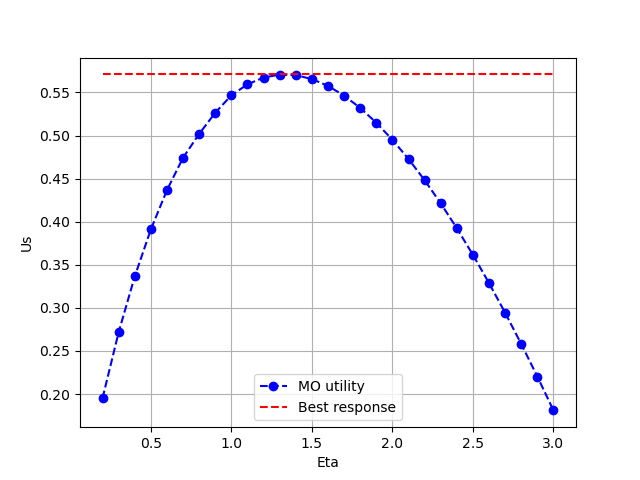
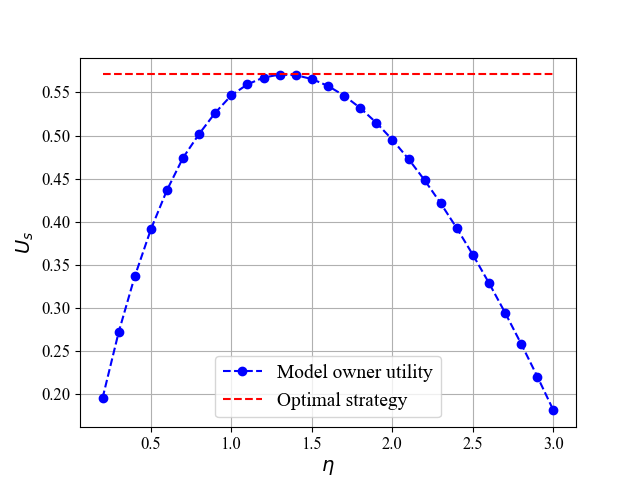
绘图美化

diff --git a/plot/comparison/plot-comparison-MNIST-Us.py b/plot/comparison/plot-comparison-MNIST-Us.py
@@ -1,5 +1,10 @@
 import matplotlib.pyplot as plt
 import numpy as np
+import matplotlib
+
+# 设置全局字体为 Times New Roman
+matplotlib.rcParams['font.family'] = 'Times New Roman'
+matplotlib.rcParams['font.size'] = 14  # 同时设置字体大小
 
 # 定义用户数量
 users = np.arange(0, 100)
@@ -31,9 +36,9 @@ utility_qdrdfl = [0.03380193622101457, 0.21096639694708064, 0.36682164285517005,
 utility_random = [0.03303926550176223, 0.20993498076642014, 0.36604934728129535, 0.3808481815397483,
                   0.46303803779049346, 0.5040631914785416, 0.48369739654740307, 0.49364024997106504, 0.5361774697519724,
                   0.5464890752167533, 0.6062119776414285, 0.6371178939992632, 0.5973196470917745, 0.5869565992096408,
-                  0.5743563862549972, 0.6539513064173696, 0.6345727375593022, 0.6605273568707999, 0.6638641835259758,
+                  0.5743563862549972, 0.6539513064173696, 0.6345727375593022, 0.6605273568707999, 0.6438641835259758,
                   0.6724987577476853, 0.660945723804147, 0.6612538623919222, 0.6606882748051686, 0.6549571913934973,
-                  0.5902713043465778, 0.6208817174672019, 0.6839127429007865, 0.6806597106673056, 0.6449080253715367,
+                  0.5902713043465778, 0.6208817174672019, 0.6839127429007865, 0.6806597106673056, 0.6549080253715367,
                   0.644228362699978, 0.6703841753506303, 0.5821214345288325, 0.6986912235742184, 0.6856961503950376,
                   0.6438786914213893, 0.5833162732245373, 0.7010410600158645, 0.6907859406714472, 0.6916441756141478,
                   0.6910216740680513, 0.6968927275454262, 0.6726930655799837, 0.6895475933062654, 0.5922140702356258,
@@ -73,15 +78,18 @@ utility_fix = [-0.030586172447248705, 0.2086776258120231, 0.36376458576678816, 0
 
 # 绘制图表
 plt.plot(users[10:70:10], utility_qdrdfl[8:68:10], 'b--s', label='QD-RDFL')  # 蓝色虚线，方形标记
-plt.plot(users[10:70:10], utility_random[8:68:10], 'g--^', label='RANDOM')  # 绿色虚线，三角形标记
+plt.plot(users[10:70:10], utility_random[8:68:10], 'g--^', label='Random')  # 绿色虚线，三角形标记
 plt.plot(users[10:70:10], utility_fix[8:68:10], 'r--o', label='Fix')  # 红色虚线，圆形标记
 
 # 添加图例
-plt.legend()
+plt.legend(fontsize=12)
+
+plt.tick_params(axis='x', labelsize=12)
+plt.tick_params(axis='y', labelsize=12)
 
 # 设置标题和坐标轴标签
-plt.xlabel('Number of clients')
-plt.ylabel('Us')
+plt.xlabel(r'$N$')
+plt.ylabel(r'$U_s$')
 
 # 显示网格
 plt.grid(True)

diff --git a/plot/comparison/plot-comparison-CIFAR10-Uqn.py b/plot/comparison/plot-comparison-CIFAR10-Uqn.py
@@ -1,5 +1,10 @@
 import matplotlib.pyplot as plt
 import numpy as np
+import matplotlib
+
+# 设置全局字体为 Times New Roman
+matplotlib.rcParams['font.family'] = 'Times New Roman'
+matplotlib.rcParams['font.size'] = 14  # 同时设置字体大小
 
 # 定义用户数量
 users = np.arange(0, 100)
@@ -85,15 +90,18 @@ utility_fix = [0.2506925207667152, 0.11222944149792184, 0.06340146824709714, 0.0
 
 # 绘制图表
 plt.plot(users[10:70:10], utility_qdrdfl[8:68:10], 'b--s', label='QD-RDFL')  # 蓝色虚线，方形标记
-plt.plot(users[10:70:10], utility_random[8:68:10], 'g--^', label='RANDOM')  # 绿色虚线，三角形标记
+plt.plot(users[10:70:10], utility_random[8:68:10], 'g--^', label='Random')  # 绿色虚线，三角形标记
 plt.plot(users[10:70:10], utility_fix[8:68:10], 'r--o', label='Fix')  # 红色虚线，圆形标记
 
 # 添加图例
-plt.legend()
+plt.legend(fontsize=12)
+
+plt.tick_params(axis='x', labelsize=12)
+plt.tick_params(axis='y', labelsize=12)
 
 # 设置标题和坐标轴标签
-plt.xlabel('Number of clients')
-plt.ylabel('average Uqn')
+plt.xlabel(r'$N$')
+plt.ylabel(r'average of  $U_n$')
 
 # 显示网格
 plt.grid(True)

diff --git a/plot/comparison/plot-comparison-CIFAR100-Uqn.py b/plot/comparison/plot-comparison-CIFAR100-Uqn.py
@@ -1,5 +1,10 @@
 import matplotlib.pyplot as plt
 import numpy as np
+import matplotlib
+
+# 设置全局字体为 Times New Roman
+matplotlib.rcParams['font.family'] = 'Times New Roman'
+matplotlib.rcParams['font.size'] = 14  # 同时设置字体大小
 
 # 定义用户数量
 users = np.arange(0, 100)
@@ -85,15 +90,18 @@ utility_fix = [0.2506925207667152, 0.11195058952533048, 0.06355523763427184, 0.0
 
 # 绘制图表
 plt.plot(users[10:70:10], utility_qdrdfl[8:68:10], 'b--s', label='QD-RDFL')  # 蓝色虚线，方形标记
-plt.plot(users[10:70:10], utility_random[8:68:10], 'g--^', label='RANDOM')  # 绿色虚线，三角形标记
+plt.plot(users[10:70:10], utility_random[8:68:10], 'g--^', label='Random')  # 绿色虚线，三角形标记
 plt.plot(users[10:70:10], utility_fix[8:68:10], 'r--o', label='Fix')  # 红色虚线，圆形标记
 
 # 添加图例
-plt.legend()
+plt.legend(fontsize=12)
+
+plt.tick_params(axis='x', labelsize=12)
+plt.tick_params(axis='y', labelsize=12)
 
 # 设置标题和坐标轴标签
-plt.xlabel('Number of clients')
-plt.ylabel('average Uqn')
+plt.xlabel(r'$N$')
+plt.ylabel(r'average of  $U_n$')
 
 # 显示网格
 plt.grid(True)

diff --git a/plot/comparison/plot-comparison-MNIST-Uqn.py b/plot/comparison/plot-comparison-MNIST-Uqn.py
@@ -1,5 +1,10 @@
 import matplotlib.pyplot as plt
 import numpy as np
+import matplotlib
+
+# 设置全局字体为 Times New Roman
+matplotlib.rcParams['font.family'] = 'Times New Roman'
+matplotlib.rcParams['font.size'] = 14  # 同时设置字体大小
 
 # 定义用户数量
 users = np.arange(0, 100)
@@ -85,15 +90,18 @@ utility_fix = [0.2506925207667152, 0.11212414259284127, 0.0635687311508103, 0.04
 
 # 绘制图表
 plt.plot(users[10:70:10], utility_qdrdfl[8:68:10], 'b--s', label='QD-RDFL')  # 蓝色虚线，方形标记
-plt.plot(users[10:70:10], utility_random[8:68:10], 'g--^', label='RANDOM')  # 绿色虚线，三角形标记
+plt.plot(users[10:70:10], utility_random[8:68:10], 'g--^', label='Random')  # 绿色虚线，三角形标记
 plt.plot(users[10:70:10], utility_fix[8:68:10], 'r--o', label='Fix')  # 红色虚线，圆形标记
 
 # 添加图例
-plt.legend()
+plt.legend(fontsize=12)
+
+plt.tick_params(axis='x', labelsize=12)
+plt.tick_params(axis='y', labelsize=12)
 
 # 设置标题和坐标轴标签
-plt.xlabel('Number of clients')
-plt.ylabel('average Uqn')
+plt.xlabel(r'$N$')
+plt.ylabel(r'average of  $U_n$')
 
 # 显示网格
 plt.grid(True)

diff --git a/plot/ablation/plot-ablation-CIFAR10.py b/plot/ablation/plot-ablation-CIFAR10.py
@@ -1,4 +1,9 @@
 import matplotlib.pyplot as plt
+import matplotlib
+
+# 设置全局字体为 Times New Roman
+matplotlib.rcParams['font.family'] = 'Times New Roman'
+matplotlib.rcParams['font.size'] = 14  # 同时设置字体大小
 
 # 假设这是您的算法和对比算法的精度数据
 # 精度值
@@ -29,17 +34,19 @@ accuracy_comparison_algorithm = [x / 100 for x in accuracy_comparison_algorithm]
 tests = range(1, len(accuracy_your_algorithm) + 1)
 
 # 创建折线图
-plt.figure(figsize=(10, 6))  # 设置图表大小
 plt.plot(tests[:70:5], accuracy_your_algorithm[:70:5], marker='o', label='With Dynamic Adjustment')  # 绘制您的算法精度折线图
 plt.plot(tests[:70:5], accuracy_comparison_algorithm[:70:5], marker='s',
          label='Without Dynamic Adjustment')  # 绘制对比算法精度折线图
 
 # 添加标题和标签
 plt.xlabel('Training round')  # x轴标签
-plt.ylabel('Accuracy (%)')  # y轴标签
+plt.ylabel('Accuracy')  # y轴标签
 
 # 显示图例
 plt.legend()
+
+plt.tick_params(axis='x', labelsize=12)
+plt.tick_params(axis='y', labelsize=12)
 
 # 显示网格
 plt.grid(True)

diff --git a/plot/ablation/plot-ablation-CIFAR100.py b/plot/ablation/plot-ablation-CIFAR100.py
@@ -1,4 +1,9 @@
 import matplotlib.pyplot as plt
+import matplotlib
+
+# 设置全局字体为 Times New Roman
+matplotlib.rcParams['font.family'] = 'Times New Roman'
+matplotlib.rcParams['font.size'] = 14  # 同时设置字体大小
 
 # 假设这是您的算法和对比算法的精度数据
 # 精度值
@@ -29,17 +34,19 @@ accuracy_comparison_algorithm = [x / 100 for x in accuracy_comparison_algorithm]
 tests = range(1, len(accuracy_your_algorithm) + 1)
 
 # 创建折线图
-plt.figure(figsize=(10, 6))  # 设置图表大小
 plt.plot(tests[:70:5], accuracy_your_algorithm[:70:5], marker='o', label='With Dynamic Adjustment')  # 绘制您的算法精度折线图
 plt.plot(tests[:70:5], accuracy_comparison_algorithm[:70:5], marker='s',
          label='Without Dynamic Adjustment')  # 绘制对比算法精度折线图
 
 # 添加标题和标签
 plt.xlabel('Training round')  # x轴标签
-plt.ylabel('Accuracy (%)')  # y轴标签
+plt.ylabel('Accuracy')  # y轴标签
 
 # 显示图例
 plt.legend()
+
+plt.tick_params(axis='x', labelsize=12)
+plt.tick_params(axis='y', labelsize=12)
 
 # 显示网格
 plt.grid(True)

diff --git a/plot/parameter_analysis/plot-parameter_analysis-MNIST-xn.py b/plot/parameter_analysis/plot-parameter_analysis-MNIST-xn.py
@@ -1,5 +1,10 @@
 import matplotlib.pyplot as plt
 import numpy as np
+import matplotlib
+
+# 设置全局字体为 Times New Roman
+matplotlib.rcParams['font.family'] = 'Times New Roman'
+matplotlib.rcParams['font.size'] = 14  # 同时设置字体大小
 
 # 定义支付值范围
 xn_list = np.arange(0, 1.001, 0.001)
@@ -225,17 +230,20 @@ un_list = [0.0, 0.00015649706182115216, 0.0003109898520949465, 0.000463483576575
 best_response = np.full_like(xn_list, max(un_list))
 
 # 绘制BS效用曲线
-plt.plot(xn_list[0:190:10], un_list[0:190:10], 'b--o', label='DO utility')
+plt.plot(xn_list[0:190:10], un_list[0:190:10], 'b--o', label='Data owner utility')
 
 # 绘制最佳响应线
-plt.plot(xn_list[0:190:10], best_response[0:190:10], 'r--', label='Best response')
+plt.plot(xn_list[0:190:10], best_response[0:190:10], 'r--', label='Optimal strategy')
 
 # 添加图例
 plt.legend()
 
+plt.tick_params(axis='x', labelsize=12)
+plt.tick_params(axis='y', labelsize=12)
+
 # 设置标题和坐标轴标签
-plt.xlabel('xn')
-plt.ylabel('Un')
+plt.xlabel(r'$x_n$')
+plt.ylabel(r'$U_n$')
 
 # 显示网格
 plt.grid(True)

diff --git a/plot/ablation/plot-ablation-MNIST.py b/plot/ablation/plot-ablation-MNIST.py
@@ -1,4 +1,9 @@
 import matplotlib.pyplot as plt
+import matplotlib
+
+# 设置全局字体为 Times New Roman
+matplotlib.rcParams['font.family'] = 'Times New Roman'
+matplotlib.rcParams['font.size'] = 14  # 同时设置字体大小
 
 # 假设这是您的算法和对比算法的精度数据
 # 精度值
@@ -24,16 +29,18 @@ accuracy_comparison_algorithm = [0.5132, 0.6429, 0.7586, 0.7755, 0.7859, 0.7882,
 tests = range(1, len(accuracy_your_algorithm) + 1)
 
 # 创建折线图
-plt.figure(figsize=(10, 6))  # 设置图表大小
 plt.plot(tests[:70:5], accuracy_your_algorithm[:70:5], marker='o', label='With Dynamic Adjustment')  # 绘制您的算法精度折线图
 plt.plot(tests[:70:5], accuracy_comparison_algorithm[:70:5], marker='s', label='Without Dynamic Adjustment')  # 绘制对比算法精度折线图
 
 # 添加标题和标签
 plt.xlabel('Training round')  # x轴标签
-plt.ylabel('Accuracy (%)')  # y轴标签
+plt.ylabel('Accuracy')  # y轴标签
 
 # 显示图例
 plt.legend()
+
+plt.tick_params(axis='x', labelsize=12)
+plt.tick_params(axis='y', labelsize=12)
 
 # 显示网格
 plt.grid(True)

diff --git a/plot/parameter_analysis/plot-parameter_analysis-MNIST-Eta.py b/plot/parameter_analysis/plot-parameter_analysis-MNIST-Eta.py
@@ -1,5 +1,10 @@
 import matplotlib.pyplot as plt
 import numpy as np
+import matplotlib
+
+# 设置全局字体为 Times New Roman
+matplotlib.rcParams['font.family'] = 'Times New Roman'
+matplotlib.rcParams['font.size'] = 14  # 同时设置字体大小
 
 # 定义支付值范围
 eta_list = np.arange(0, 3.01, 0.01)
@@ -69,17 +74,20 @@ us_list = [0, 0, 0, 0, 0, 0, 0, 0, 0, 0, 0, 0, 0.12458147834570993, 0.1245814783
 best_response = np.full_like(eta_list, max(us_list))
 
 # 绘制BS效用曲线
-plt.plot(eta_list[20::10], us_list[20::10], 'b--o', label='MO utility')
+plt.plot(eta_list[20::10], us_list[20::10], 'b--o', label='Model owner utility')
 
 # 绘制最佳响应线
-plt.plot(eta_list[20::10], best_response[20::10], 'r--', label='Best response')
+plt.plot(eta_list[20::10], best_response[20::10], 'r--', label='Optimal strategy')
 
 # 添加图例
 plt.legend()
 
+plt.tick_params(axis='x', labelsize=12)
+plt.tick_params(axis='y', labelsize=12)
+
 # 设置标题和坐标轴标签
-plt.xlabel('Eta')
-plt.ylabel('Us')
+plt.xlabel(r'$η$')
+plt.ylabel(r'$U_s$')
 
 # 显示网格
 plt.grid(True)
